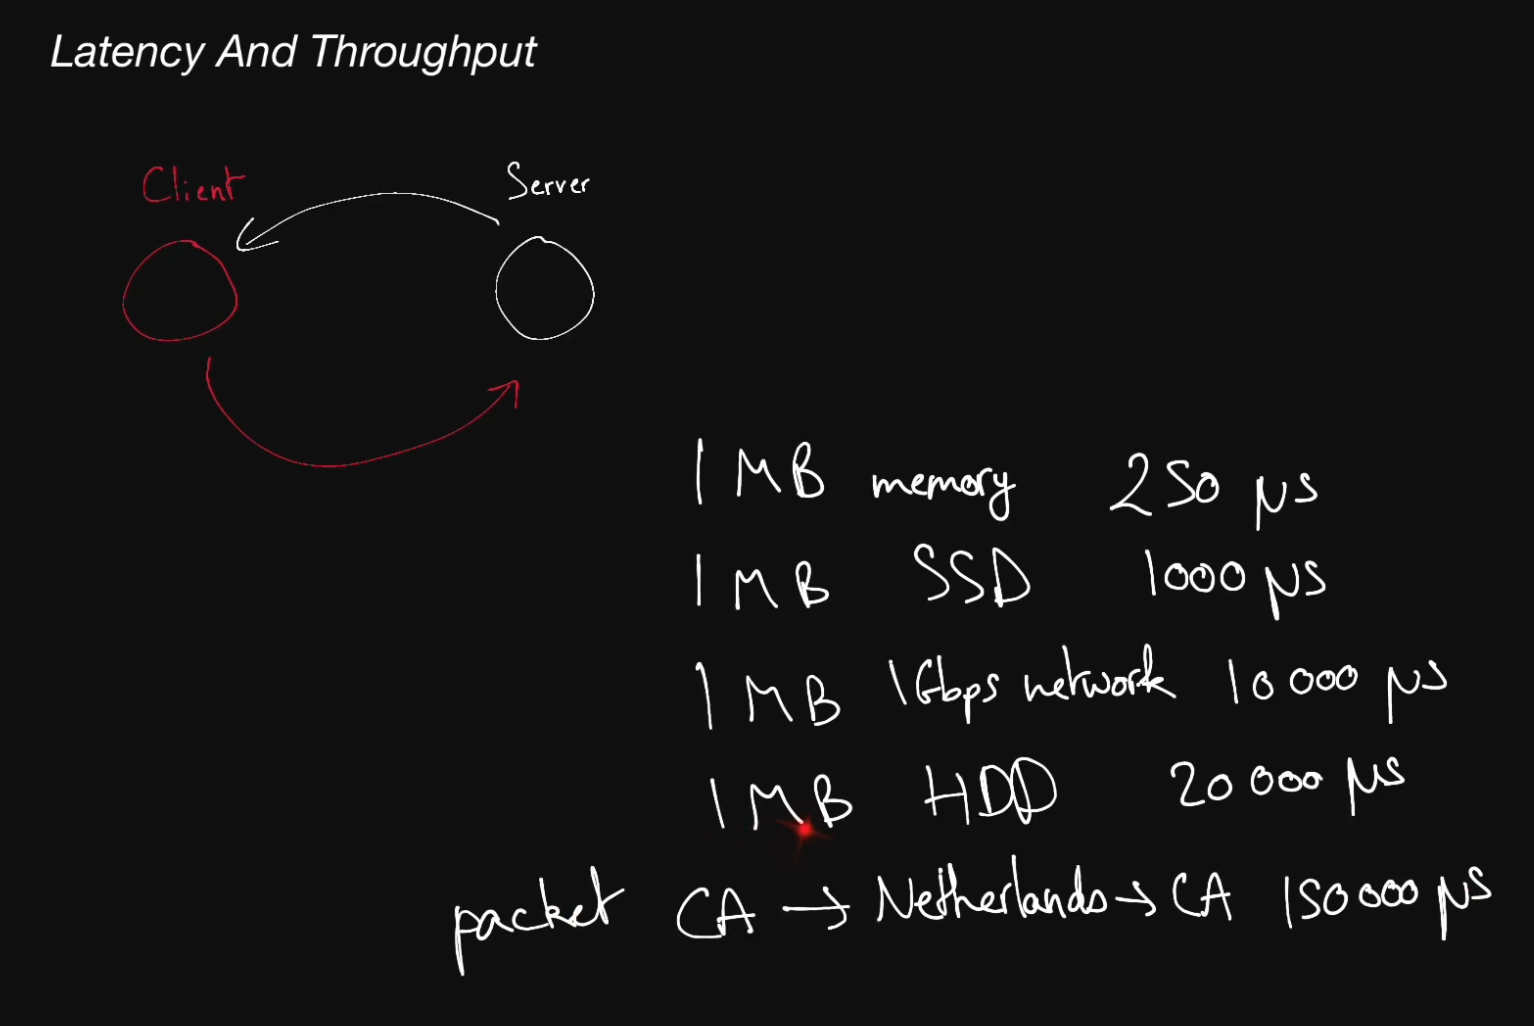
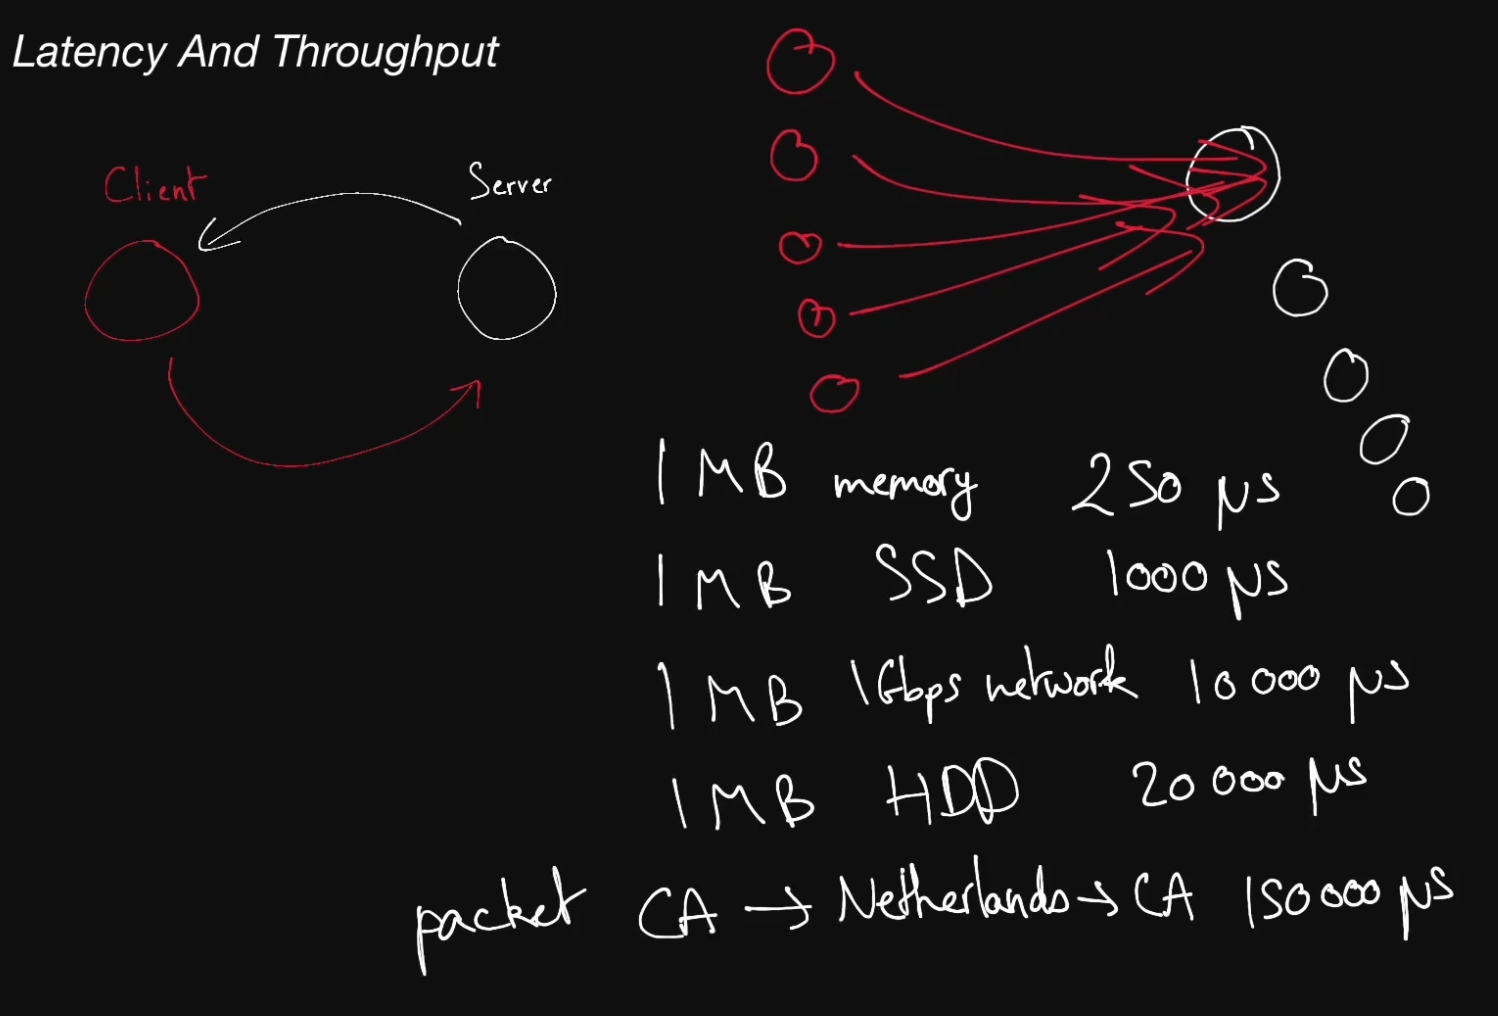
latency and throughput

diff --git a/Leetcode Practices/system design/System Design Fundamentals.md b/Leetcode Practices/system design/System Design Fundamentals.md
@@ -1,0 +1,28 @@
+# System Design Fundamentals
+
+https://www.algoexpert.io/systems/fundamentals  
+* Client—Server Model
+* Network Protocols
+* Storage
+* Latency And Throughput
+* Availability
+* Caching
+* Proxies
+* Load Balancers
+* Hashing
+* Relational Databases
+* Key-Value Stores
+* Specialized Storage Paradigms
+* Replication And Sharding
+* Leader Election
+* Peer-To-Peer Networks
+* Polling And Streaming
+* Configuration
+* Rate Limiting
+* Logging And Monitoring
+* Publish/Subscribe Pattern
+* MapReduce
+* Security And HTTPS
+* API Design
+
+![](./Latency%20And%20Throughput.png)  

diff --git a/Leetcode Practices/system design/README.md b/Leetcode Practices/system design/README.md
@@ -35,6 +35,7 @@
 ### 系统学习
 * [Grok System Design Tutorial](https://github.com/yihaoye/data-structure-and-algorithm-study-notes/blob/master/Leetcode%20Practices/system%20design/grok_system_design_interview.pdf)
 * [System-Design-Primer](https://github.com/donnemartin/system-design-primer)  
+* [System Design Fundamentals](./System%20Design%20Fundamentals.md)
   
 ### 系统主要大类（其他系统皆可从中找到类似）
 ![](./System%20Category.png)  
